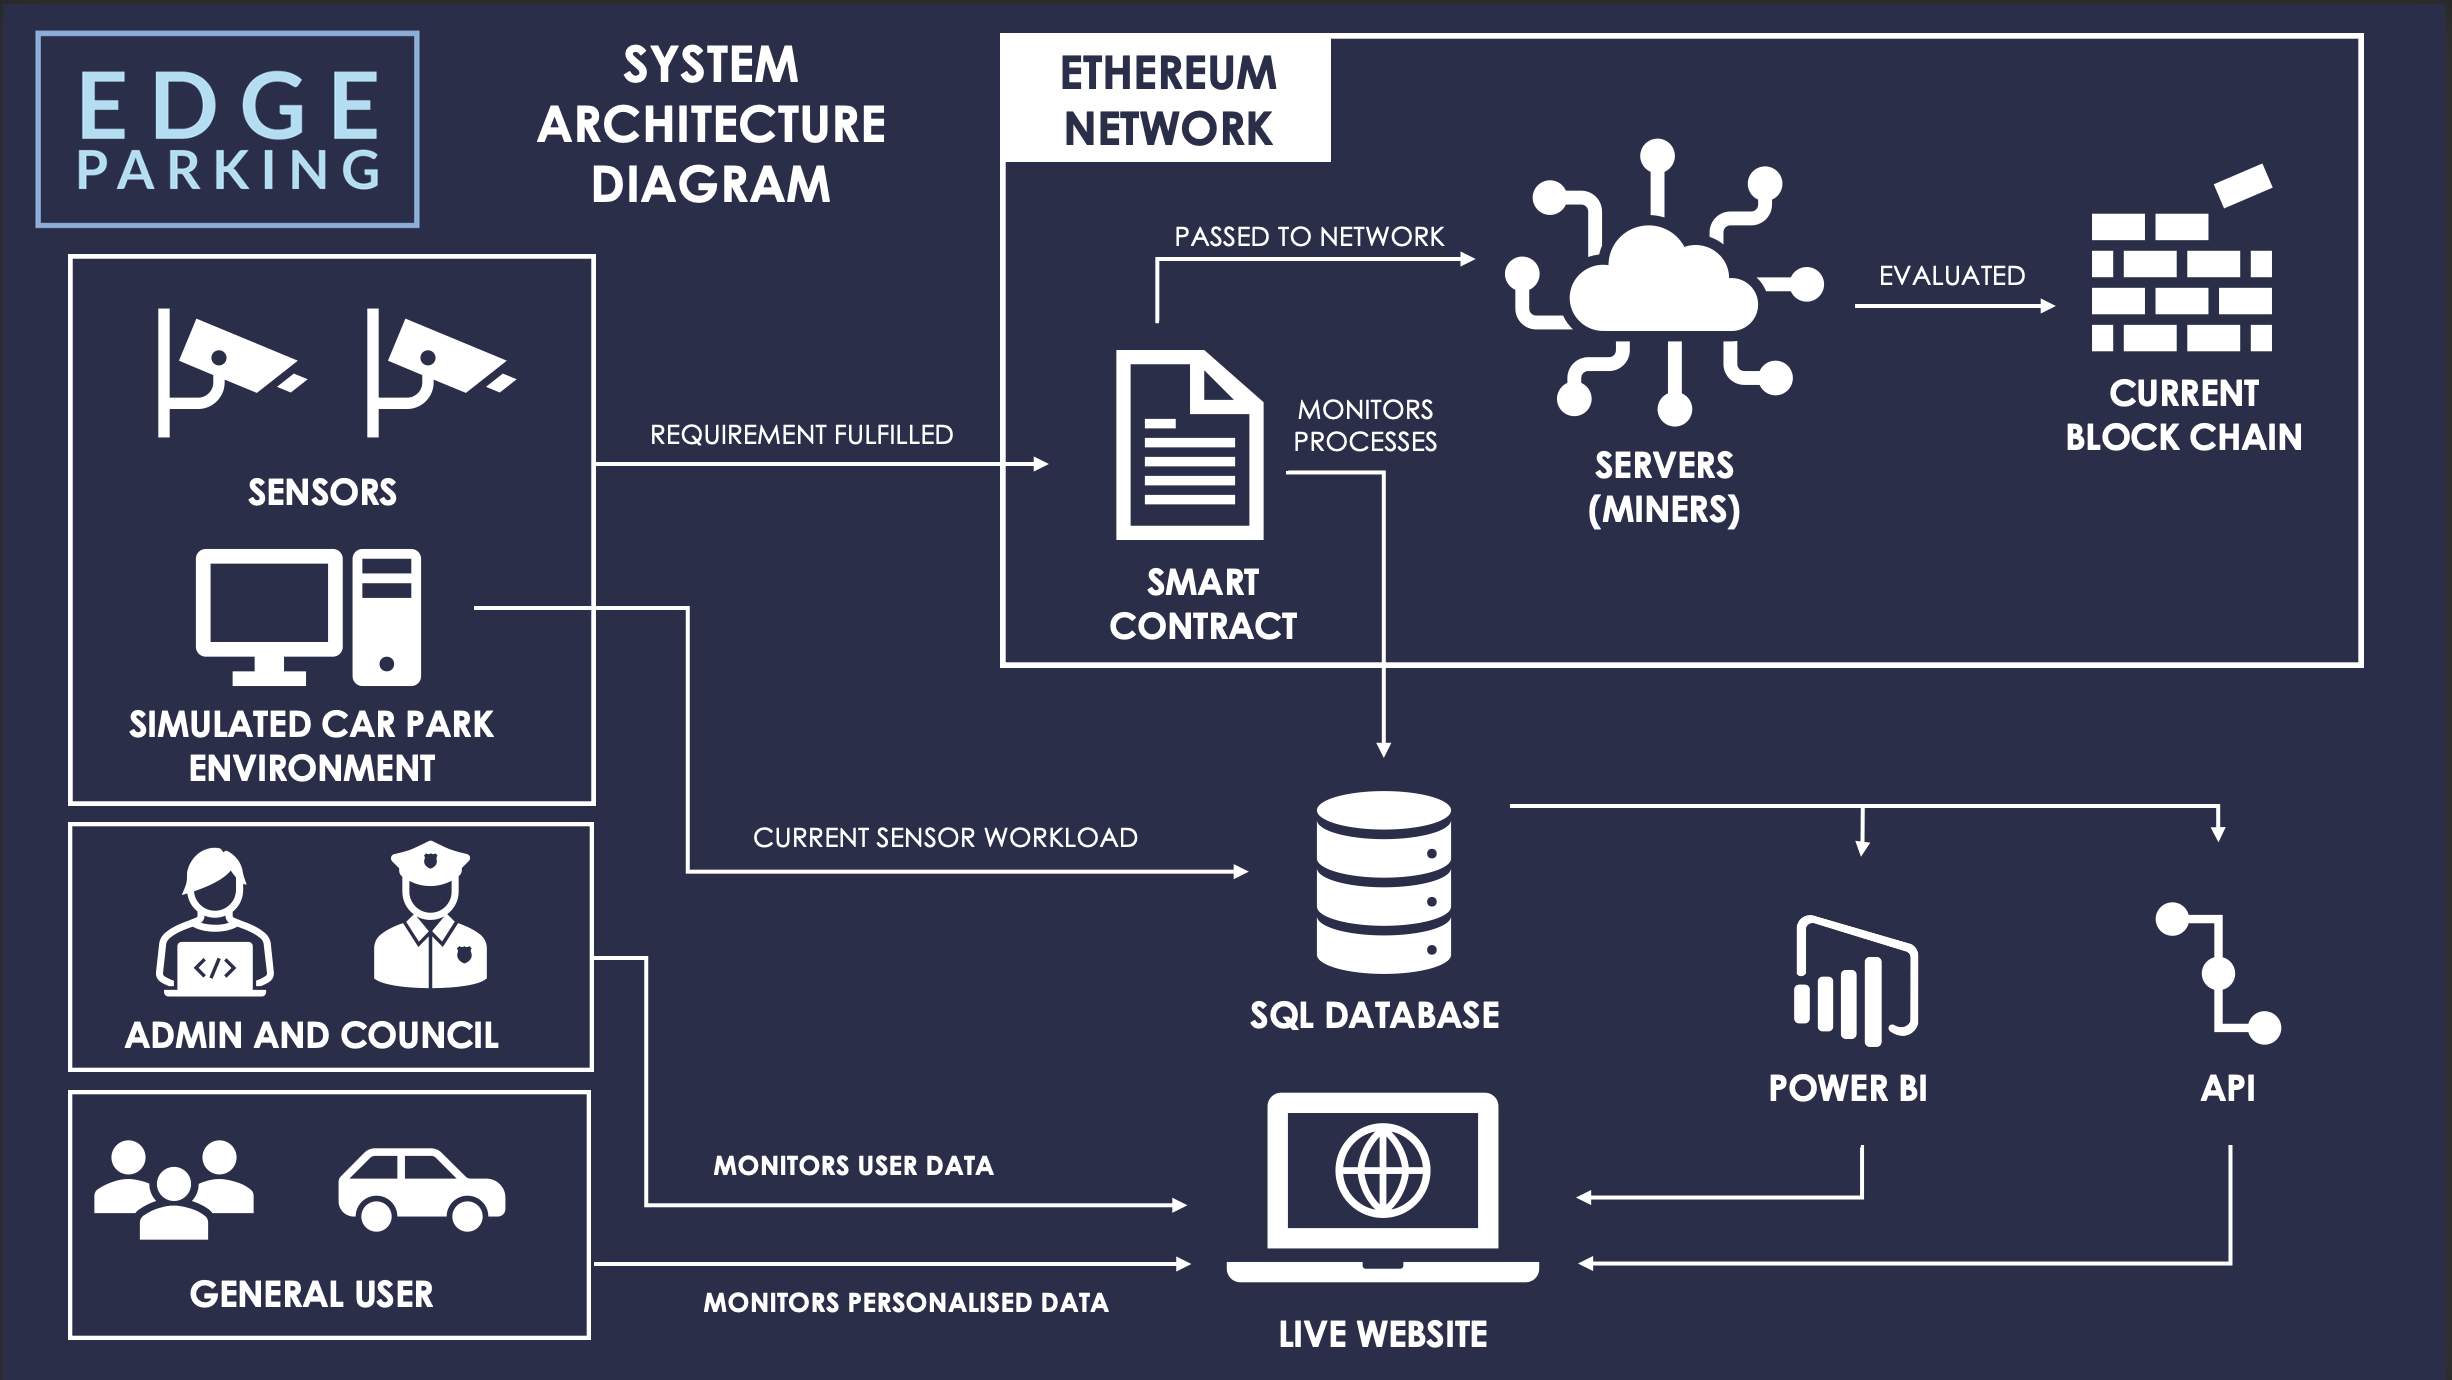
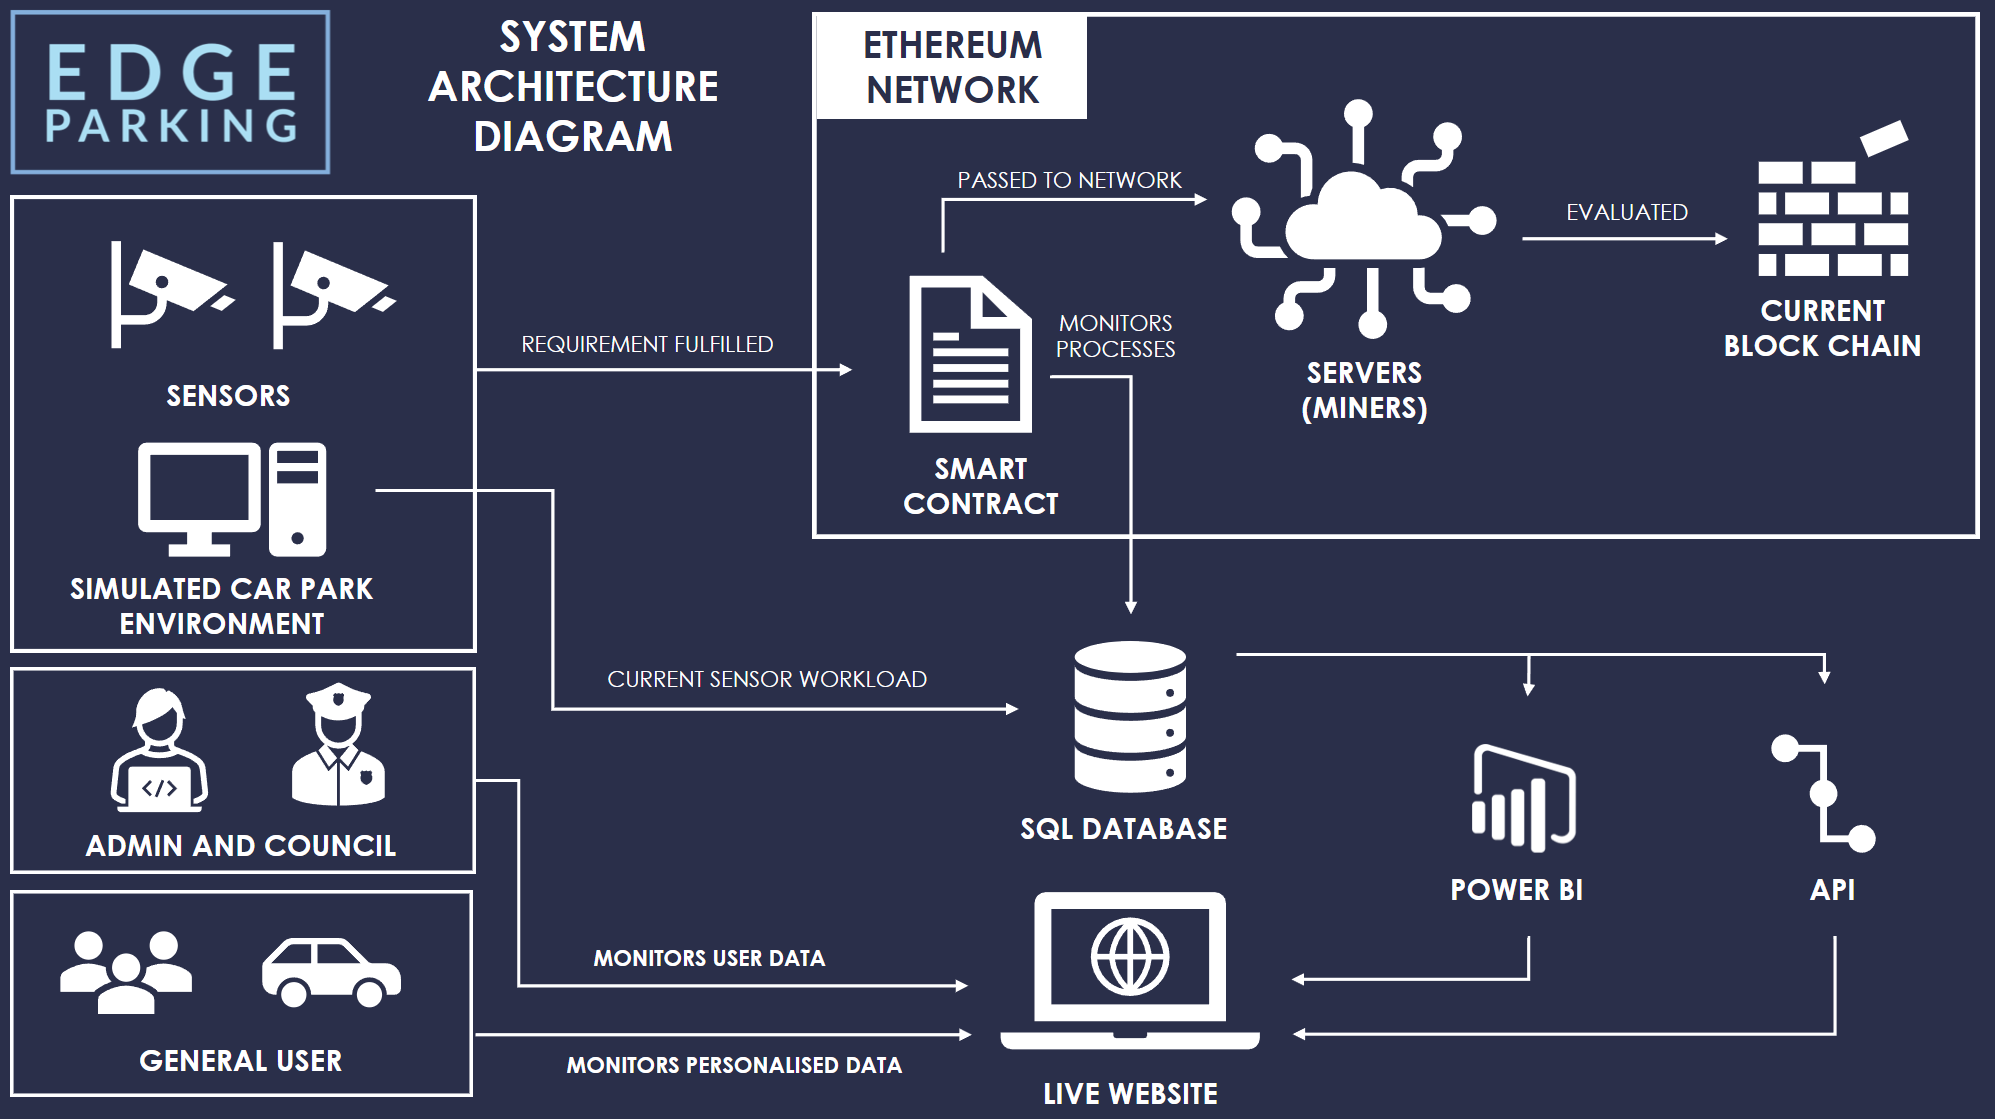
Visuals Improvements

diff --git a/ClientApp/src/app/Three/pageThree.component.html b/ClientApp/src/app/Three/pageThree.component.html
@@ -17,7 +17,7 @@
     <section id="one">
       <div class="inner">
         <header class="major">
-          <h1>The Simulator and it's data generation</h1>
+          <h1>The Simulator and It's Data Generation</h1>
         </header>
         <p>
           <b>The three main variables V1, V2, and V3, are being continuously generated by the simulator. These values represent the following. The speed of a car (Km/Hr), the fuel consumed by a car (mL), and the pause time of a car (s). </b>
@@ -27,11 +27,6 @@
 
     <!-- LIVE DATA DISPLAY V1-->
     <section id="two">
-      <!--
-    <header class="major">
-      <h3>Live Speed Data From the Simulator</h3>
-    </header>
-    -->
 
       <section id="five" class="spotlights">
         <section>
@@ -89,7 +84,7 @@
           <div class="content">
             <div class="inner">
               <header class="major">
-                <h3>Live Pause time data of a vehicle in the simulator</h3>
+                <h3>Live Pause Time Data of a Vehicle in The Simulator</h3>
                 <h4>Pause time fluctuates as cars starts and stops</h4>
               </header>
             </div>

diff --git a/ClientApp/src/app/Nine/pageNine.component.html b/ClientApp/src/app/Nine/pageNine.component.html
@@ -38,9 +38,9 @@
         <hr />
         <div class="fields">
           <div class="field">
-            <label for="address">Current Address or Postcode</label>
+            <label for="address">Destination Address or Postcode</label>
             <b>
-              <input type="text" id="address" name="address" minlength="4" required placeholder="Enter Current Address or Postcode E.g. (66-34 Norwood Dr, Keilor East VIC 3033)" [(ngModel)]="address" />
+              <input type="text" id="address" name="address" minlength="4" required placeholder="Enter Destination Address or Postcode E.g. (66-34 Norwood Dr, Keilor East VIC 3033)" [(ngModel)]="address" />
             </b>
           </div>
         </div>
@@ -66,7 +66,7 @@
           <div class="content">
             <div class="inner">
               <header class="major">
-                <h3>Carpark Information and Get Directions</h3>
+                <h3>Get Carpark Information and Get Directions</h3>
                 <h4>The path to a carpark may differ depening on traffic conditions</h4>
               </header>
             </div>

diff --git a/ClientApp/src/app/Two/pageTwo.component.html b/ClientApp/src/app/Two/pageTwo.component.html
@@ -90,7 +90,7 @@
           <div class="inner">
             <header class="major">
               <h3>Jarvis Cole</h3>
-              <h4>Bachelors of Computer Science</h4>
+              <h4>Bachelors of Computer Science and Commerce</h4>
             </header>
           </div>
         </div>
@@ -120,7 +120,7 @@
         <p>
           <b>
             Team Edge was started in 2021, by five university students, who found interest in the Internet Of Things present in todays world.
-            Team Edge has the following drivers.
+            Team Edge has the following drivers
             .Understanding the scalability of smart contracts and IoT devices in the blockchain network
             .Decreasing costs and data discrepancies for carparks in the future
             .Complete end to end automation of a blockchain and IoT network

diff --git a/ClientApp/src/app/Eighteen/pageEighteen.component.html b/ClientApp/src/app/Eighteen/pageEighteen.component.html
@@ -21,20 +21,10 @@
         <div class="inner">
           <header class="major">
             <h3>Welcome to Your Dashboard!</h3>
-
-            <!--
-            <a class="image">
-              <img class="avatar" src="../../assets/images/profile.jpeg" alt="avatar"
-                   align="left"
-                   width="150"
-                   height="171" />
-            </a>
-            Image commented out -->
-
             <h4>
-              Full Name: <br />
+              <!-- Full Name: <br /> -->
               User Type: Administator<br />
-              Email: <br /><hr />
+              <!-- Full Name: <br /> -->
             </h4>
           </header>
         </div>

diff --git a/ClientApp/src/app/Eight/pageEight.component.html b/ClientApp/src/app/Eight/pageEight.component.html
@@ -53,8 +53,8 @@
           <div class="content">
             <div class="inner">
               <header class="major">
-                <h3>Carpark Information and Directions</h3>
-                <h4>The path to a carpark may change depending on traffic conditions</h4>
+                <h3>Carpark Routes</h3>
+                <h4>The set paths of The Simulator that are defined vehicles routes</h4>
               </header>
             </div>
           </div>

diff --git a/ClientApp/src/app/Eleven/pageEleven.component.html b/ClientApp/src/app/Eleven/pageEleven.component.html
@@ -23,9 +23,9 @@
             <header class="major">
               <h3>Welcome to Your Dashboard!</h3>
               <h4>
-                Full Name:  <br />
+                <!-- Full Name: <br /> -->
                 User Type: Customer <br />
-                Email: <br /><hr />
+                <!-- Email: <br /><hr /> -->
               </h4>
             </header>
           </div>

diff --git a/ClientApp/src/app/Four/pageFour.component.html b/ClientApp/src/app/Four/pageFour.component.html
@@ -23,6 +23,9 @@
           Current parking systems are expensive and tedious, and are not designed for the current environment we live in. Edge Parking provides more.
         </b>
       </p>
+      <span class ="image main">
+        <img src="../../assets/images/archectureDiagram.png" alt="" data-position="center center" />
+      </span>
     </div>
   </section>
 

diff --git a/ClientApp/src/app/Eleven/pageEleven.component.ts b/ClientApp/src/app/Eleven/pageEleven.component.ts
@@ -227,9 +227,11 @@ export class Eleven implements OnInit {
 
     this.http.get<User>(this.baseUrl + 'user/' + this.ipAddress).subscribe(result => {
       console.log(result.user_ID);
+      //result = this.user;
       this.User_ID = result.user_ID;
     }, error => console.error(error));
   }
+  private user: User;
 
   ipAddress: string;
   getIPAddress() {

diff --git a/ClientApp/src/app/Thirteen/pageThirteen.component.html b/ClientApp/src/app/Thirteen/pageThirteen.component.html
@@ -27,11 +27,6 @@
 
     <!-- LIVE DATA DISPLAY V1-->
     <section id="two">
-      <!--
-    <header class="major">
-      <h3>Live Speed Data From the Simulator</h3>
-    </header>
-    -->
 
       <section id="five" class="spotlights">
         <section>
